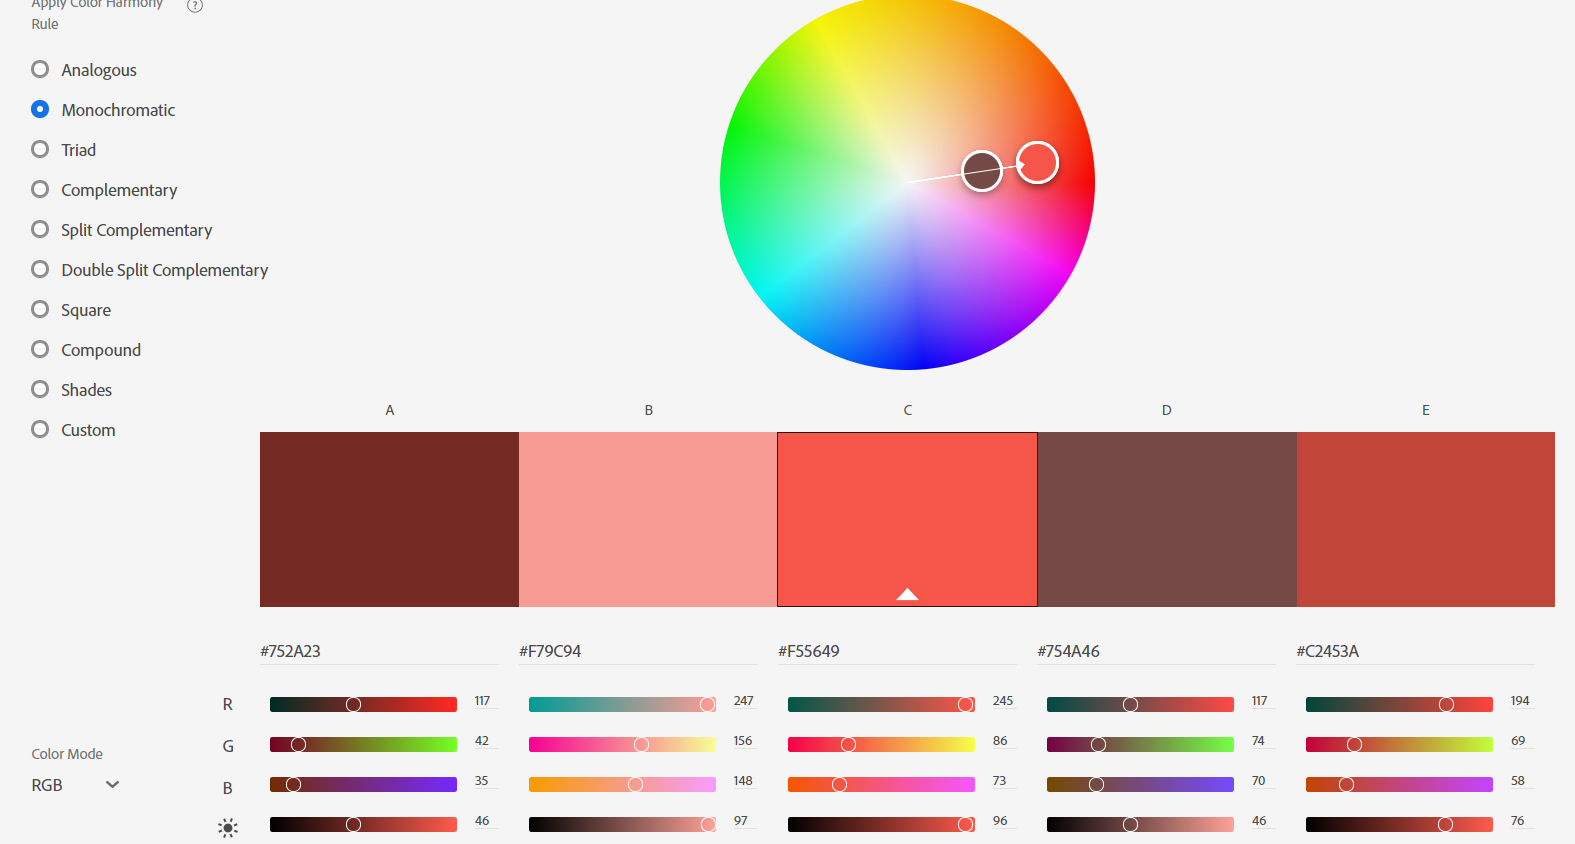
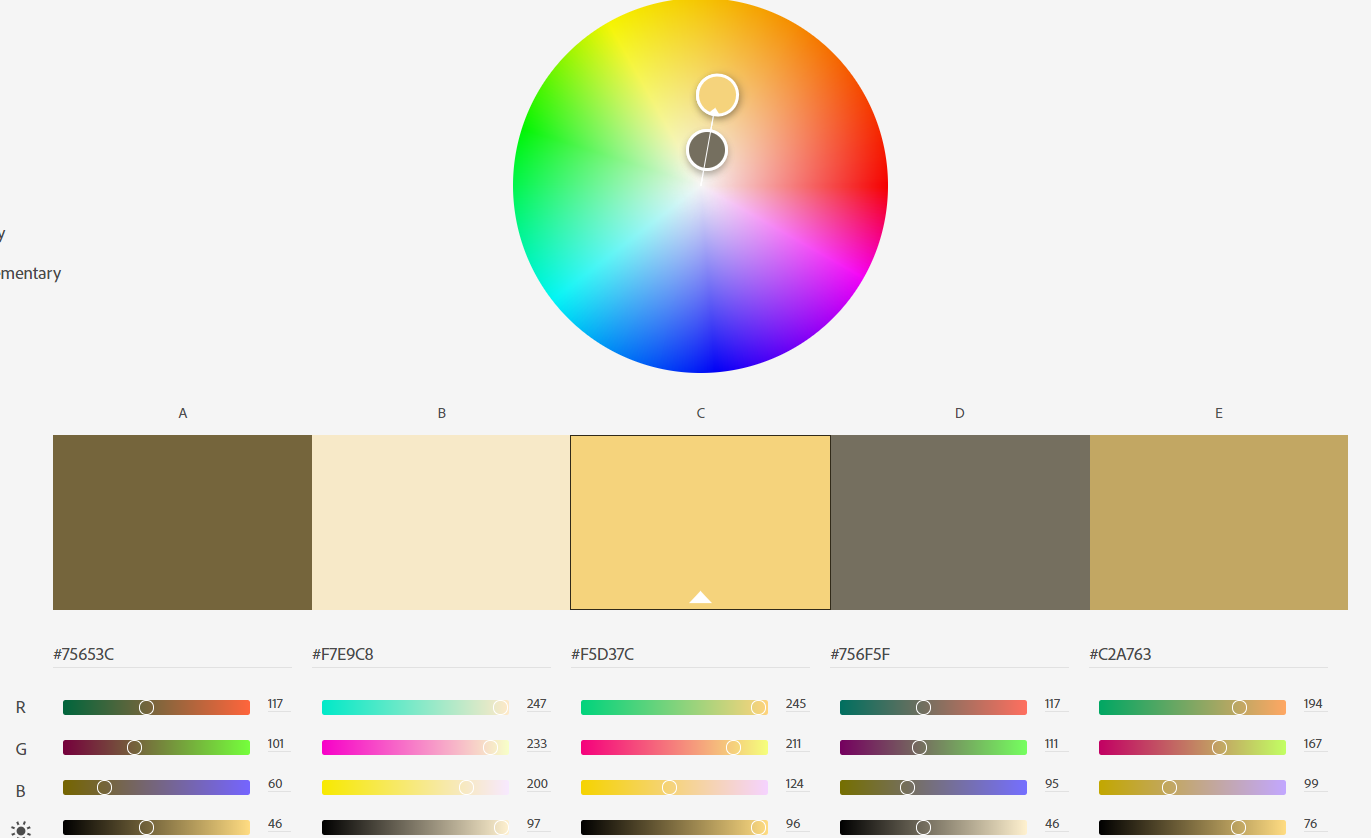
Rotation now continuous, button is a toggle. Swapper color palette and updated README

diff --git a/index.html b/index.html
@@ -9,7 +9,7 @@
     -->
     <link type="text/css" rel="stylesheet" href="style_sheet.css">
     <!--
-      The following source was used to learn how to embed CSS into an HTML file:
+      The following source was used to learn how to embed a font into an HTML file:
       https://www.w3schools.com/css/css_font_google.asp
     -->
     <link rel="stylesheet" href="https://fonts.googleapis.com/css?family=Ubuntu">
@@ -23,18 +23,16 @@
       <a href="#Working Experience">Working Experience</a>
     <br><br>
 
-  </body>
     <img id="profile_picture" src="ProfilePicture.jpg" alt="" width="155.4" height="233.2">
-    <br>
-    <button type=button onclick="rotateImage()">Rotate</button>
+    <br><br>
+    <button type=button onclick="toggleStart()">Start/Stop Rotation</button>
 
-    <a name="Bio">
+    <a id="Bio">
       <h2>Bio</h2>
     </a>
     <p>
       Hi everyone! I'm Joe, and I'm currently a senior.
-    </p>
-    <p>
+      <br><br>
       I'm a double major in Computer Science / Interactive Media and Game Development
     </p>
     <p>
@@ -55,7 +53,7 @@
       I've also taken various IMGD courses, including IMGD 2900, which uses Professor Moriarty's Perlenspiel game engine. This engine is web-based and uses Javascript.
     </p>
 
-    <a name="Experience">
+    <a id="Experience">
       <h2>Experience</h2>
     </a>
     <p>
@@ -70,7 +68,7 @@
       </ul>
     </p>
 
-    <a name="Working Experience">
+    <a id="Working Experience">
       <h3>Working experience</h3>
     </a>
     <p>
@@ -85,10 +83,21 @@
     //Rotates the profile picture by 90 degrees
     //The following source was using to learn how to rotate objects in CSS:
     //https://www.w3schools.com/cssref/css3_pr_transform.asp
-    let rotation = 90;
-    const rotateImage = function(){
-      document.getElementById("profile_picture").style.transform = `rotate(${rotation}deg)`;
-      rotation = (rotation + 90) % 360;
+    let start = false;
+    let rotation = 0;
+    const ROTATION_DELTA = 5;
+
+    const toggleStart = function(){
+      start = !start;
+      console.log(start);
     };
+
+    const rotateImage = function(){
+      if(start){
+        rotation = (rotation + ROTATION_DELTA) % 360;
+        document.getElementById("profile_picture").style.transform = `rotate(${rotation}deg)`;
+      }
+    };
+    setInterval(rotateImage, 50);
   </script>
 </html>

diff --git a/server.js b/server.js
@@ -1,25 +1,25 @@
 const http = require('http'),
       fs   = require('fs'),
-      port = 3000
+      port = 3000;
 
 const server = http.createServer( function( request,response ) {
   switch( request.url ) {
     case '/':
-      sendFile( response, 'index.html' )
-      break
     case '/index.html':
-      sendFile( response, 'index.html' )
-      break
+      sendFile(response, 'index.html');
+      //sendFile( response, 'style_sheet.css' )
+      //sendFile( response, 'ProfilePicture.png' )
+      break;
     default:
       response.end( '404 Error: File Not Found' )
   }
-})
+});
 
-server.listen( process.env.PORT || port )
+server.listen( process.env.PORT || port );
 
 const sendFile = function( response, filename ) {
    fs.readFile( filename, function( err, content ) {
-     file = content
+     file = content;
      response.end( content, 'utf-8' )
    })
-}
+};

diff --git a/style_sheet.css b/style_sheet.css
@@ -1,29 +1,34 @@
 /*
-    Stylesheet for index.html for CS 4241 Assignment 1
+ *  Stylesheet for index.html for CS 4241 Assignment 1
+ *
+ *  Joseph Swetz
+ *  CS 4241 Assignment 1
+*/
 
-    I guessed and used * to set the font of all elements and it
-    worked :)
- */
 * {
-    font-family: Ubuntu;
+    font-family: Ubuntu, serif;
 }
 
+/*
+ * Color palette is from color.adobe.com. A screenshot can be found
+ * in this directory at color_palette.png.
+ */
 h1 {
-    color: #752A23;
+    color: #75653C;
 }
 
 h2 {
-    color: #754A46;
+    color: #C2A763;
 }
 
 h3 {
-    color: #C2453A;
+    color: #F5D37C;
 }
 
 a {
-   color: #F55649;
+   color: #756F5F;
 }
 
 body {
-    background-color: #F79C94;
+    background-color: #F7E9C8;
 }

diff --git a/README.md b/README.md
@@ -6,7 +6,11 @@ NOTE: put glitch link here
 This project shows ...
 
 ## Technical Achievements
-- **Experiment with other HTML tags**: Added the following tags
+- **Simple CSS Rules**: Added the following CSS rules:
+- **Simple Javascript animation**: The start/stop rotation button is used to toggle the profile
+    picture continuously rotating. The button can be found in line 18 of index.html, and the script
+    that rotates the image can be found on lines 84-104 of index.html
+- **Experiment with other HTML tags**: Added the following tags:
     - **img**: added a picture of myself on line 9 of index.html
     - **strong**: Used to emphasize the subsection "Work Experience" on line 46 of index.html
     - **a**: Used to create anchors to the separate sections of the webpage
@@ -15,10 +19,9 @@ This project shows ...
     - **button**: Used to create input trigger so user can continuously rotate the profile picture
     - **br**: Used to provide whitespace between various sections of webpage, such as putting rotate 
     button under the image rather than next to it. Can be found on lines 14 and 18 of index.html
-- **Simple Javascript animation**: The profile picture rotates whenever the button below 
-    the image is pressed. The button can be found in line 18 of index.html, and the script
-    that rotates the image can be found on lines 63-72 of index.html
 
 ### Design Achievements
+- **Used a Color Palette**: Created a monochromatic color palette using color.adobe.com. A screenshot
+    of the color wheel for the palette can be found in this directory at color_palette.png.
 - **Used the Ubuntu Font from Google Fonts**: All text on the site is in the Ubuntu font from google 
-fonts: https://fonts.google.com/specimen/Ubuntu.
+    fonts: https://fonts.google.com/specimen/Ubuntu.
